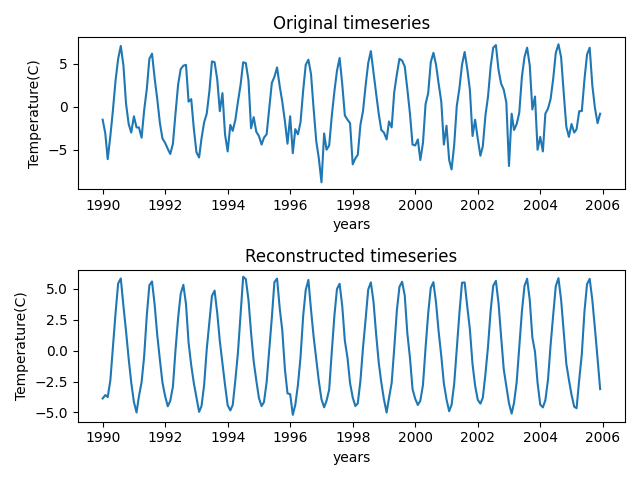
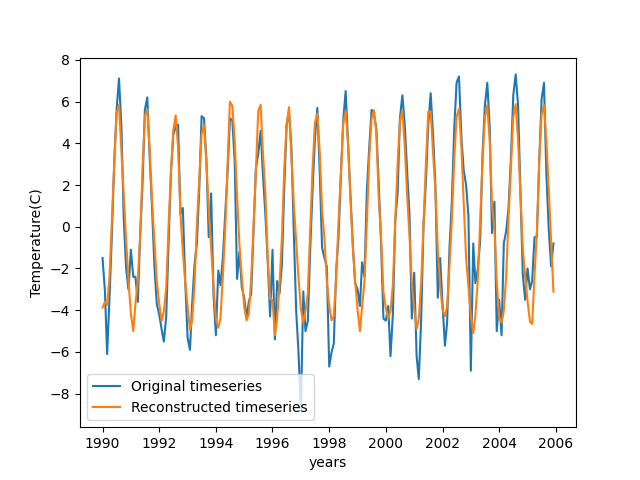
lab 2 final?

diff --git a/Lab_2/Tim_allen_task5_PCA5.py b/Lab_2/Tim_allen_task5_PCA5.py
@@ -1,42 +1,34 @@
+
+
 import numpy as np
 import matplotlib.pyplot as plt
 from read_station_data import datetime_array_create
-from PCA_artificial_data import Principal_Component_Analysis
+from Tim_allen_task1_PCA_artificial_data import Principal_Component_Analysis
 
-# def reconstructor():
-#     "Reconstructs a time series from 3 EOFs"
 
 def plotter(data1, data2, acc):
     "Plots two time series against each other to compare"
     time = datetime_array_create(1990, 2006)
     fig = plt.figure()
-    ax1 = fig.add_subplot(211)
-    ax1.plot(time, data1)
-    ax1.set_title("Original timeseries")
+    ax1 = fig.add_subplot()
+    ax1.plot(time, data1, label="Original timeseries")
+    ax1.plot(time, data2, label="Reconstructed timeseries")
     ax1.set_xlabel("years")
     ax1.set_ylabel("Temperature(C)")
-
-    ax2 = fig.add_subplot(212)
-    ax2.plot(time, data2)
-    ax2.set_title("Reconstructed timeseries")
-    ax2.set_xlabel("years")
-    ax2.set_ylabel("Temperature(C)")
-
-    fig.tight_layout()
+    plt.legend()
     plt.savefig('PCA5_test%01d.png'%acc)
-
 
 def main():
     """Plots timeseries from first valid station first three EOFs
     compares with input
     """
-    acc= 400
+    acc = 3 # Number of EOFs to use
     temperature_array = np.load("good_station_data.npz").get("temperature_array")
     first_weatherstation_data = temperature_array[:, 0]
     [eigen_values,eigen_vectors,anomaly,covariance]=Principal_Component_Analysis(temperature_array)
     first3EOF = eigen_vectors[:, -acc:]
     proj = np.matmul(first3EOF, np.transpose(first3EOF))
-    first_weatherstation_pca = np.matmul(anomaly, proj)     # Reconstructing the data
-    plotter(first_weatherstation_data, first_weatherstation_pca[:, 0], acc)
+    weatherstation_pca = np.matmul(anomaly, proj)     # Reconstructing the data
+    plotter(first_weatherstation_data, weatherstation_pca[:, 0], acc)
     
 main()

diff --git a/Lab_2/Tim_allen_task1_PCA_artificial_data.py b/Lab_2/Tim_allen_task1_PCA_artificial_data.py
@@ -68,14 +68,13 @@ def main():
     y=data_gen()
     [eigen_values,eigen_vectors,anomaly,covariance]=Principal_Component_Analysis(y)
     PC=np.matmul(anomaly,eigen_vectors)
-    print(np.shape(PC), np.shape(anomaly),np.shape(eigen_vectors))
     for j in [-1,-2,-3]:     # plot the last three values in the PCA analysis - note ordering
         plt.figure()
         plt.subplot(2,1,1)
         plt.pcolor(np.reshape(eigen_vectors[:,j],(13,13)))
         plt.subplot(2,1,2)
         plt.plot(PC[:,j])
-        #plt.savefig('PCA_Test_%01d.png' %j)  # ensures that ordering is nice
+        plt.savefig('PCA_Test_%01d.png' %j)  # ensures that ordering is nice
     
 #main()     # Comment after use to keep imports clean
 

diff --git a/Lab_2/Tim_allen_task4_PCA4.py b/Lab_2/Tim_allen_task4_PCA4.py
@@ -1,11 +1,11 @@
+
+
 import numpy as np
 import matplotlib.pyplot as plt
 import cartopy.crs as ccrs
 from matplotlib.cm import ScalarMappable
 from matplotlib.colors import Normalize
-from PCA_artificial_data import Principal_Component_Analysis
-
-
+from Tim_allen_task1_PCA_artificial_data import Principal_Component_Analysis
 
 
 def plotter(eigen_vectors, PC, latitude, longitude):
@@ -25,7 +25,6 @@ def plotter(eigen_vectors, PC, latitude, longitude):
 
     fig2 = plt.figure()
     ax2 = fig2.add_subplot()
-    #time = datetime_array_create(1990,2006)
     ax2.plot(PC[:,-1])
     
     plt.savefig('PCA4_timeseries.png')

diff --git a/Lab_2/Tim_allen_task3_PCA3.py b/Lab_2/Tim_allen_task3_PCA3.py
@@ -1,10 +1,8 @@
-import numpy as np
-from PCA2 import load_all_data
 
-#z = np.ma.masked_values([1.0, 1.e20, 3.0, 4.0], 1.e20)
-#val = [0, 0, 5, 6, 5]
-#val_i = np.where(val == -99.0, True , False)
-#print(f'joe mama{val_i}')
+
+import numpy as np
+from Tim_allen_task2_PCA2 import load_all_data
+
 
 def invalid_data_stripper(tt_df):
     """takes a dataframe, slices to dates between Jan 1990 and Dec 2005 then drops columns with invalid data(-99.0)

diff --git a/Lab_2/Tim_allen_task2_PCA2.py b/Lab_2/Tim_allen_task2_PCA2.py
@@ -5,10 +5,12 @@ Created on Fri Jul 28 10:18:33 2023
 @author: tal75
 """
 
+
 import glob
 import pandas as pd
 
 from read_station_data import read_station_data_file
+
 
 def load_all_data():
     "Loads all data in the dir Station_data into arrays lat,lon, and date and temp into a dataframe and returns them"
